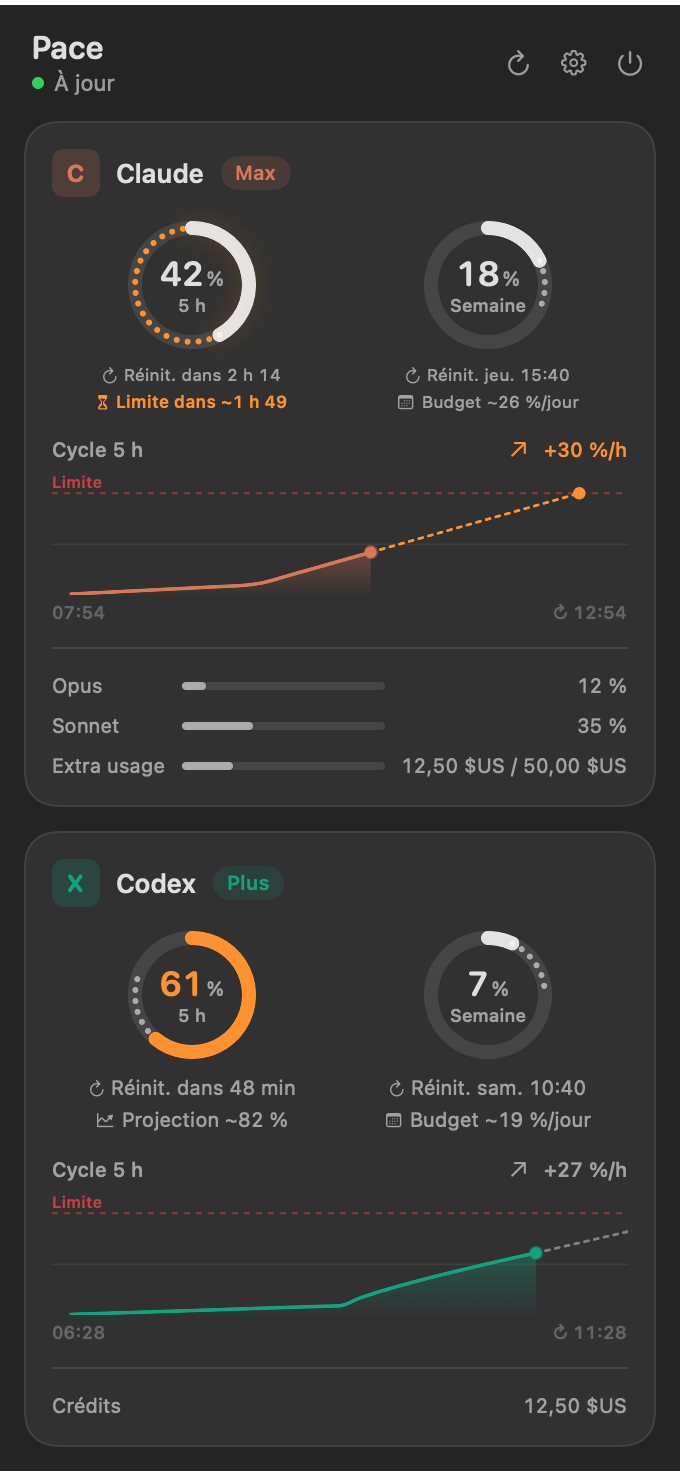
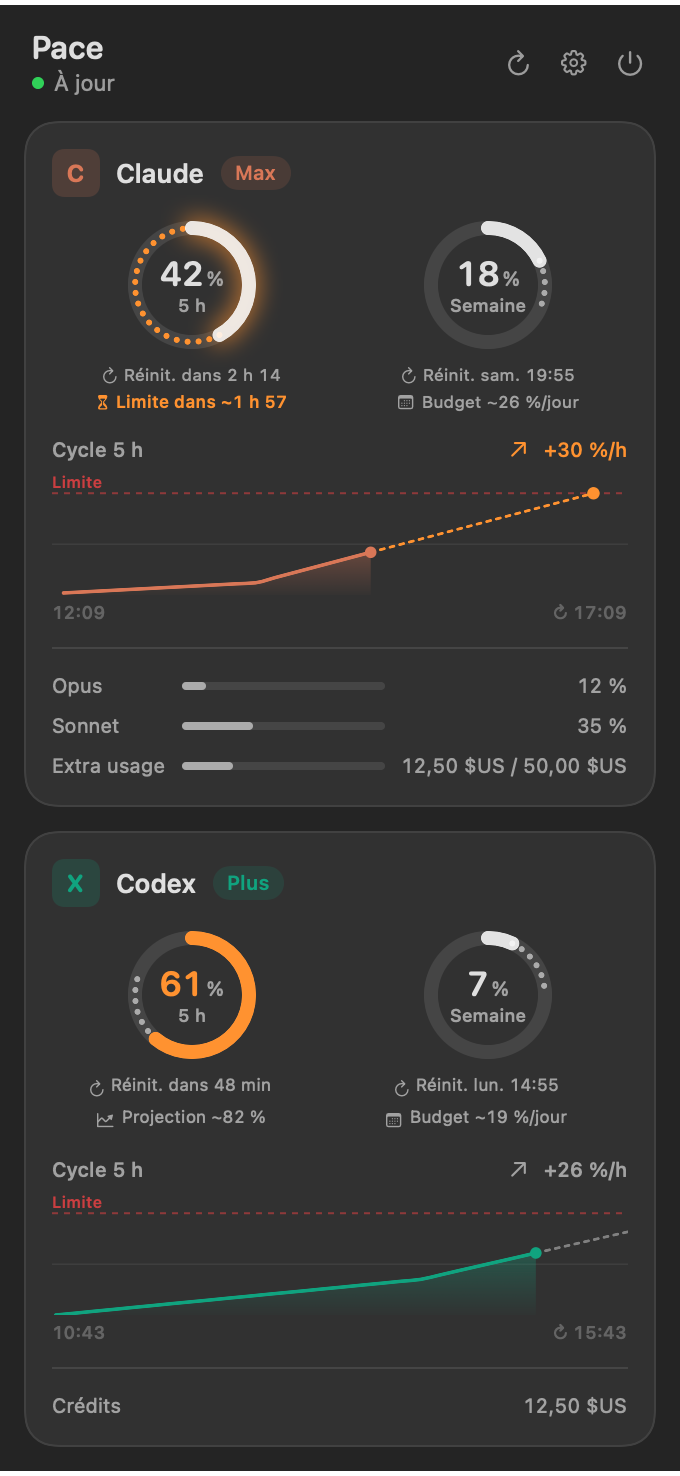
Refresh README screenshots with all six connectors
Show the menu bar with Claude, Codex, Copilot, Cursor, z.ai and OpenRouter,
and the popover in two side-by-side captures: Claude with Codex, Copilot
with Cursor.

diff --git a/README.md b/README.md
@@ -8,7 +8,7 @@
 
 Sans clic, sans télémétrie, sans dépendance.
 
-<img src="docs/img/menubar.png" width="340" alt="Barre de menu Pace">
+<img src="docs/img/menubar.png" width="384" alt="Barre de menu Pace avec les six connecteurs">
 
 </div>
 
@@ -20,7 +20,8 @@ mois). Les valeurs restent neutres et passent en orange puis en rouge près de
 la limite. Un clic ouvre le détail.
 
 <div align="center">
-<img src="docs/img/popover.png" width="340" alt="Popover Pace">
+<img src="docs/img/popover.png" width="340" alt="Popover Pace : Claude et Codex">
+<img src="docs/img/popover-more.png" width="340" alt="Popover Pace : Copilot et Cursor">
 </div>
 
 ## Fonctionnalités
